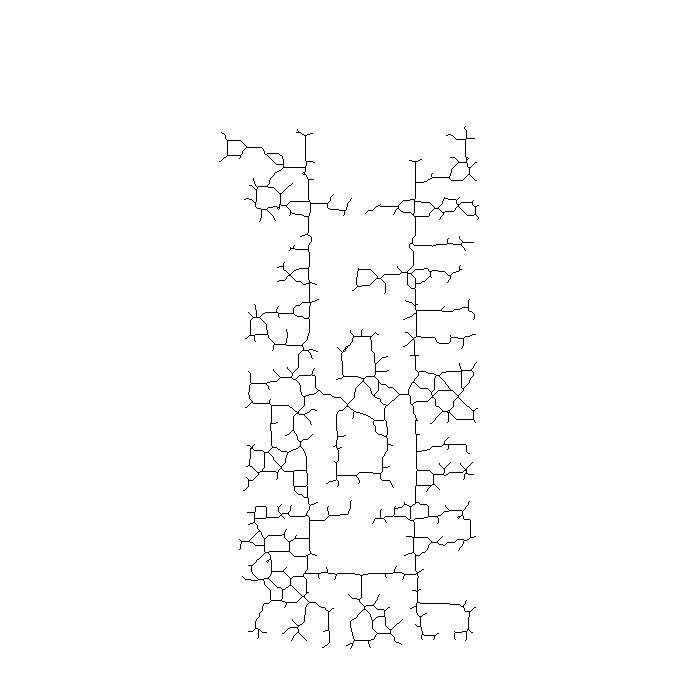
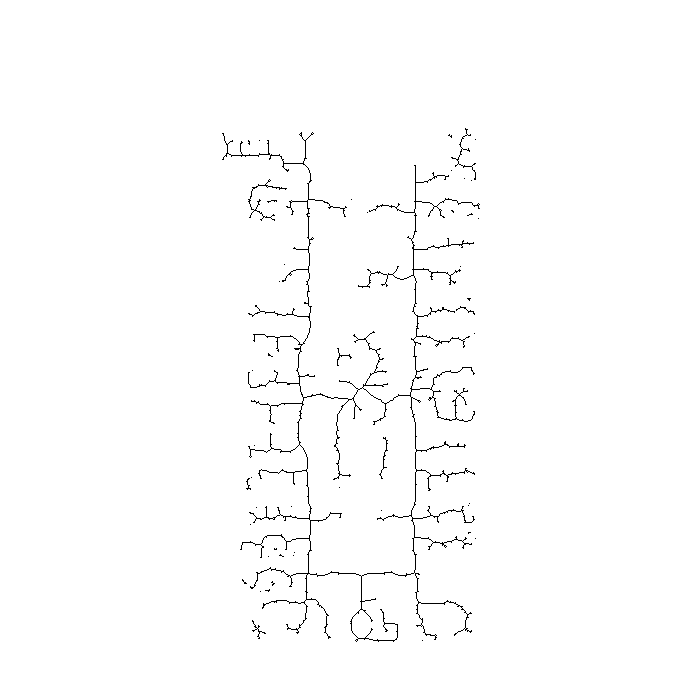
fixed voronoi graph generator

diff --git a/gibson_env_utilities/voronoi_graph_generator.py b/gibson_env_utilities/voronoi_graph_generator.py
@@ -16,16 +16,19 @@ class Node:
         self._y_image = y_image
         self._x_real = (x_image - map_origin[0]) * scale
         self._y_real = (y_image - map_origin[1]) * scale
-        self._connected_nodes: Set[Node] = set()
+        self._connected_nodes: List[Node] = []
 
     def connect_with(self, node: 'Node'):
-        self._connected_nodes.add(node)
+        self._connected_nodes.append(node)
 
     def get_image_coordinates(self):
         return self._x_image, self._y_image
 
-    def get_connected_nodes(self) -> Set['Node']:
+    def get_connected_nodes(self) -> List['Node']:
         return self._connected_nodes
+
+    def remove_connected_node(self, node: 'Node'):
+        self._connected_nodes.remove(node)
 
     def __eq__(self, other):
         return isinstance(other, Node) and self._x_image == other._x_image and self._y_image == other._y_image
@@ -38,7 +41,7 @@ class Graph:
     def __init__(self, image_width, image_height):
         self._image_width = image_width
         self._image_height = image_height
-        self._nodes: Dict[Tuple, Node] = {}
+        self._nodes: Dict[Tuple[int, int], Node] = {}
         self._arcs = set()
         self._connected_components: Dict[int, Set[Node]] = {}
 
@@ -54,6 +57,43 @@ class Graph:
 
     def get_connected_components(self):
         return self._connected_components
+
+    def get_graph_bitmap(self):
+        graph_bitmap = np.array(
+            [255 for _ in range(self._image_width * self._image_height)], dtype=np.uint8
+        ).reshape((self._image_width, self._image_height))
+
+        for x, y in self._nodes.keys():
+            graph_bitmap[x, y] = 0
+
+        return graph_bitmap
+
+    def prune_side_lines(self):
+        visited_nodes = set()
+
+        def iterate(node: Node, component: int):
+            if node in visited_nodes:
+                return
+
+            visited_nodes.add(node)
+
+            for connected_node in node.get_connected_nodes():
+                iterate(connected_node, component)
+
+            remove_nodes = set()
+            for connected_node in node.get_connected_nodes():
+                if len(connected_node.get_connected_nodes()) == 1:
+                    remove_nodes.add(connected_node)
+
+            for remove_node in remove_nodes:
+                node.get_connected_nodes().remove(remove_node)
+                self._nodes.pop(remove_node.get_image_coordinates())
+                self._connected_components[component].remove(remove_node)
+
+        for component in self._connected_components.keys():
+            visited_nodes = set()
+            node = list(self._connected_components[component])[0]
+            iterate(node, component)
 
     def find_connected_components(self):
         component_id = 0
@@ -101,7 +141,45 @@ class VoronoiGraphGenerator:
         # Contains the black point of the voronoi bitmap (which are all graph nodes)
         self._graph = Graph(self._map.shape[0], self._map.shape[1])
 
-    def generate_voronoi_bitmap(self, robot_radius: float = 0.05, save_to_file: bool = False) -> np.array:
+    def _generate_voronoi_graph(self, voronoi_bitmap):
+        """
+        Extracts the graph from voronoi bitmap.
+        The graph can be composed by multiple connected components, the graph entity stores all of them.
+        Typically the robot positions are chosen from the longest one.
+        The side lines are pruned directly by the graph.
+        :return: the graph
+        """
+        import sys
+        sys.setrecursionlimit(10000)
+
+        # Creates graph nodes converting black pixels
+        for x, y in np.ndindex(voronoi_bitmap.shape[:2]):
+            # If the pixel is black, it represents a graph node
+            if voronoi_bitmap[x, y] == 0:
+                node = Node(x_image=x, y_image=y, map_origin=self._map_metadata['origin'], scale=self._map_metadata['scale'])
+                self._graph.add_node(node)
+
+        # Search connection between nodes
+        # Two nodes are connected it their image coordinates are adjacent
+        # For each node, its surroundings is checked to find other black pixels (that are connected nodes).
+        nodes = self._graph.get_nodes()
+        for node in nodes.values():
+            x, y = node.get_image_coordinates()
+            mask_indexes = [(x1, y1)
+                            for x1 in range(max(0, x - 1), min(x + 2, voronoi_bitmap.shape[0]))
+                            for y1 in range(max(0, y - 1), min(y + 2, voronoi_bitmap.shape[1]))
+                            if x1 != x or y1 != y]
+            for x1, y1 in mask_indexes:
+                if voronoi_bitmap[x1, y1] == 0:
+                    self._graph.add_connection(node1_coordinates=(x, y), node2_coordinates=(x1, y1))
+
+        self._graph.find_connected_components()
+        self._graph.prune_side_lines()
+
+    def get_voronoi_graph(self) -> Graph:
+        return self._graph
+
+    def generate_voronoi_bitmap(self, save_to_file: bool = False) -> np.array:
         """
         This method generates a voronoi bitmap starting from a floor map.
         Steps:
@@ -117,11 +195,9 @@ class VoronoiGraphGenerator:
             9) the segments of the voronoi facets perimeter are examined.
                They are drawn only if they are inside the building's outline and not overlap an obstacle
                (in other words, if the extreme points that define a segment are inside the image and the correspondent pixel is white)
-            10) To clean the voronoi bitmap, it is dilated and then its skeleton is found using scikit-image
-            11) Finally, all pixels of the voronoi bitmap too close to an obstacle are discarded (this operation is performed using robot_radius parameter).
-
-        :param robot_radius: the robot radius in meter
-        :return:
+            10) The voronoi bitmap is used to create the graph, which finds the connected components and prunes the side lines
+            11) The connected components are found in the graph
+        :return: the voronoi bitmap
         """
         # 1) Threshold map
         ret, threshed_image = cv2.threshold(self._map, 250, 255, cv2.THRESH_BINARY)
@@ -140,12 +216,13 @@ class VoronoiGraphGenerator:
         # 3) Find contours
         (image_width, image_height) = dilated_image.shape
         contour_image = np.array([0 for _ in range(image_width * image_height)], dtype='uint8').reshape((image_width, image_height))
-
         contours, hierarchy = cv2.findContours(dilated_image, mode=cv2.RETR_TREE, method=cv2.CHAIN_APPROX_NONE)
 
         # 4) Find the building contour (it is assumed to be the longest one)
-        l_contour_index, l_contour = max(enumerate(contours), key=lambda v: cv2.arcLength(v[1], closed=False))
-        #  5) Filled the area outside the building's contour
+        l_contour_index, l_contour = max(enumerate(contours[1:]), key=lambda v: cv2.arcLength(v[1], closed=True))
+        l_contour_index += 1
+
+        #  5) Fill the area outside the building's contour
         cv2.drawContours(contour_image, contours, contourIdx=l_contour_index, color=255, thickness=cv2.FILLED)
         #cv2.imshow('external contour image', contour_image)
         #cv2.waitKey(0)
@@ -170,13 +247,12 @@ class VoronoiGraphGenerator:
                 draw_internal_contours(enumerate_hierarchy[hierarchy_data[2]])
 
         # Get first child of the external contour and all the internal contours are drawn and black filled
-        fist_child = hierarchy[0][l_contour_index][2]
-        draw_internal_contours(enumerate_hierarchy[fist_child])
+        first_child = hierarchy[0][l_contour_index][2]
+        if first_child != -1:
+            draw_internal_contours(enumerate_hierarchy[first_child])
         #cv2.imshow('filled image', filled_image)
         #cv2.waitKey(0)
 
-        # 7) Find new simplified contours in the filled image (in this way, t
-        contours, hierarchy = cv2.findContours(filled_image, mode=cv2.RETR_TREE, method=cv2.CHAIN_APPROX_NONE)
 
         # 8) The voronoi diagram is calculated using Delaunay triangulation
         rect = (0, 0, self._map.shape[1], self._map.shape[0])
@@ -188,6 +264,9 @@ class VoronoiGraphGenerator:
                 subdiv.insert(point)
 
         # 9) Draw voronoi facets contours and create the voronoi bitmap
+        eroded_filled_map = cv2.erode(filled_image, kernel=np.ones((3, 3), dtype=int), iterations=1)
+        #cv2.imshow('eroded filled', eroded_filled_map)
+        #cv2.waitKey()
         voronoi_bitmap = np.array([255 for _ in range(image_width * image_height)], dtype=np.uint8).reshape((image_width, image_height))
         (facets, centers) = subdiv.getVoronoiFacetList([])
 
@@ -199,28 +278,18 @@ class VoronoiGraphGenerator:
 
             for p1, p2 in facet_lines:
                 if 0 <= p1[0] < contour_image.shape[1] and 0 <= p1[1] < contour_image.shape[0] and \
-                        0 < p2[0] < contour_image.shape[1] and 0 < p2[1] < contour_image.shape[0] \
-                        and filled_image[p1[1], p1[0]] > 0 and filled_image[p2[1], p2[0]] > 0:
+                        0 <= p2[0] < contour_image.shape[1] and 0 <= p2[1] < contour_image.shape[0] \
+                        and eroded_filled_map[p1[1], p1[0]] > 0 and eroded_filled_map[p2[1], p2[0]] > 0:
                     cv2.line(voronoi_bitmap, p1, p2, color=0, thickness=1)
 
         #cv2.imshow('voronoi bitmap', voronoi_bitmap)
         #cv2.waitKey()
 
-        # 10) The voronoi bitmap is dilated and then the its skeleton are found
-        dilated_voronoi_bitmap = cv2.bitwise_not(voronoi_bitmap)
-        dilated_voronoi_bitmap = cv2.dilate(dilated_voronoi_bitmap, kernel=np.ones((9, 9), dtype=np.uint8))
-        #cv2.imshow('dilated voronoi bitmap', dilated_voronoi_bitmap)
-        #cv2.waitKey()
+        # 10) Create the voronoi graph
+        self._generate_voronoi_graph(voronoi_bitmap)
+        self._voronoi_bitmap = self._graph.get_graph_bitmap()
 
-        dilated_voronoi_bitmap[dilated_voronoi_bitmap == 255] = 1
-        skeleton_voronoi_bitmap = (skeletonize(dilated_voronoi_bitmap) * 255).astype(np.uint8)
-        skeleton_voronoi_bitmap = cv2.bitwise_not(skeleton_voronoi_bitmap)
-
-        # The dilation operation may ahve joined different voronoi line, so this operation discard all point in a wrong area (outside the building and over an obstacle)
-        skeleton_voronoi_bitmap[(skeleton_voronoi_bitmap == 0) & (filled_image == 0)] = 255
-        #cv2.imshow('dilated voronoi bitmap', skeleton_voronoi_bitmap)
-        #cv2.waitKey()
-
+        """
         # 11) Discard the pixels too close to an obstacle
         for (x, y) in np.ndindex(skeleton_voronoi_bitmap.shape[:2]):
             if skeleton_voronoi_bitmap[x, y] == 0:
@@ -241,7 +310,7 @@ class VoronoiGraphGenerator:
                         break
 
         self._voronoi_bitmap = skeleton_voronoi_bitmap
-
+        
         if save_to_file:
             # Save voronoi bitmap
             cv2.imwrite(os.path.join(
@@ -254,46 +323,22 @@ class VoronoiGraphGenerator:
             cv2.imwrite(os.path.join(
                 os.path.dirname(__file__), 'data', 'maps_with_voronoi_bitmaps', GibsonAssetsUtilities.GET_FILE_NAME(self._env_name, self._floor) + '.png'),
                 map_voronoi_bitmap)
+        """
+
+        if save_to_file:
+            # Save voronoi bitmap
+            cv2.imwrite(os.path.join(
+                os.path.dirname(__file__), 'data', 'voronoi_bitmaps', GibsonAssetsUtilities.GET_FILE_NAME(self._env_name, self._floor) + '.png'),
+                self._voronoi_bitmap)
+
+            # Save map + voronoi bitmap
+            map_voronoi_bitmap = self._map.copy()
+            map_voronoi_bitmap[self._voronoi_bitmap == 0] = 0
+            cv2.imwrite(os.path.join(
+                os.path.dirname(__file__), 'data', 'maps_with_voronoi_bitmaps', GibsonAssetsUtilities.GET_FILE_NAME(self._env_name, self._floor) + '.png'),
+                map_voronoi_bitmap)
 
         return self._voronoi_bitmap
-
-    def generate_voronoi_graph(self):
-        """
-        Extracts the graph from voronoi bitmap.
-        The graph can be composed by multiple connected components, the graph entity stores all of them.
-        Typically the robot positions are chosen from the longest one.
-        :return: the graph
-        """
-        import sys
-        sys.setrecursionlimit(10000)
-        #cv2.imshow('voronoi bitmap', self._voronoi_bitmap)
-        #cv2.waitKey()
-
-        # Creates graph nodes converting black pixels
-        for x, y in np.ndindex(self._voronoi_bitmap.shape[:2]):
-            # If the pixel is black, it represents a graph node
-            if self._voronoi_bitmap[x, y] == 0:
-                 node = Node(x_image=x, y_image=y, map_origin=self._map_metadata['origin'], scale=self._map_metadata['scale'])
-                 self._graph.add_node(node)
-
-        # Search connection between nodes
-        # Two nodes are connected it their image coordinates are adjacent
-        # For each node, its surroundings is checked to find other black pixels (that are connected nodes).
-        nodes = self._graph.get_nodes()
-        for node in nodes.values():
-            x, y = node.get_image_coordinates()
-            mask_indexes = [(x1, y1)
-                            for x1 in range(max(0, x - 1), min(x + 2, self._voronoi_bitmap.shape[0]))
-                            for y1 in range(max(0, y - 1), min(y + 2, self._voronoi_bitmap.shape[1]))
-                            if x1 != x or y1 != y]
-            for x1, y1 in mask_indexes:
-                if self._voronoi_bitmap[x1, y1] == 0:
-                    self._graph.add_connection(node1_coordinates=(x, y), node2_coordinates=(x1, y1))
-
-        self._graph.find_connected_components()
-
-        return self._graph
-
 
 
 

diff --git a/tests/test_voronoi_graph_generator.py b/tests/test_voronoi_graph_generator.py
@@ -13,17 +13,29 @@ def test_voronoi_bitmap():
     assert np.array_equal(voronoi_bitmap_loaded, voronoi_bitmap)
 
 
-def test_graph():
+def test_graph_nodes():
     voronoi_graph_generator = VoronoiGraphGenerator(env_name='house1', floor=0)
     voronoi_bitmap = voronoi_graph_generator.generate_voronoi_bitmap()
-    graph = voronoi_graph_generator.generate_voronoi_graph()
+    graph = voronoi_graph_generator.get_voronoi_graph()
 
     # Test nodes
     black_pixels = voronoi_bitmap[voronoi_bitmap == 0]
     assert len(graph.get_nodes().values()) == len(black_pixels)
 
-    # Test connected components
-    graph.find_connected_components()
+
+def test_graph_bitmap():
+    voronoi_graph_generator = VoronoiGraphGenerator(env_name='house1', floor=0)
+    voronoi_bitmap = voronoi_graph_generator.generate_voronoi_bitmap()
+    graph = voronoi_graph_generator.get_voronoi_graph()
+
+    assert np.array_equal(voronoi_bitmap, graph.get_graph_bitmap())
+
+
+def test_graph_connected_components():
+    voronoi_graph_generator = VoronoiGraphGenerator(env_name='house1', floor=0)
+    voronoi_bitmap = voronoi_graph_generator.generate_voronoi_bitmap()
+    graph = voronoi_graph_generator.get_voronoi_graph()
+
     components_image = np.array([[255 for _ in range(voronoi_bitmap.shape[0])] for _ in range(voronoi_bitmap.shape[1])], dtype=np.uint8)
     for component in graph.get_connected_components().values():
         for node in component:

diff --git a/examples/generate_voronoi_graph.py b/examples/generate_voronoi_graph.py
@@ -5,7 +5,10 @@ from gibson_env_utilities.voronoi_graph_generator import VoronoiGraphGenerator
 
 voronoi_graph_generator = VoronoiGraphGenerator(env_name='house1', floor=0)
 voronoi_bitmap = voronoi_graph_generator.generate_voronoi_bitmap(save_to_file=True)
-#cv2.imshow('voronoi bitmap', voronoi_bitmap)
-#cv2.waitKey()
-graph = voronoi_graph_generator.generate_voronoi_graph()
+cv2.imshow('voronoi bitmap', voronoi_bitmap)
+cv2.waitKey()
+
+graph = voronoi_graph_generator.get_voronoi_graph()
+cv2.imshow('graph bitmap', graph.get_graph_bitmap())
+cv2.waitKey()
 
